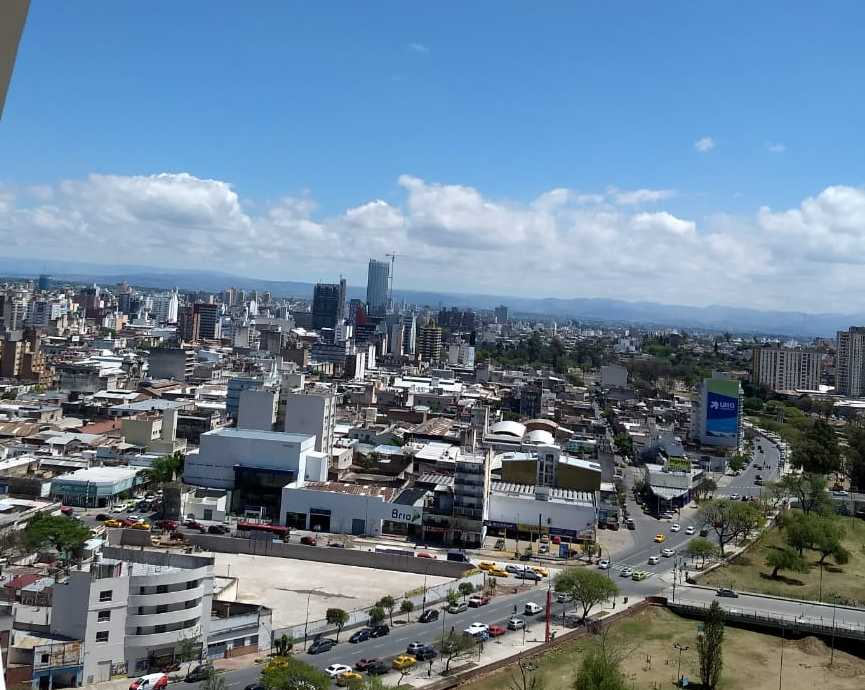
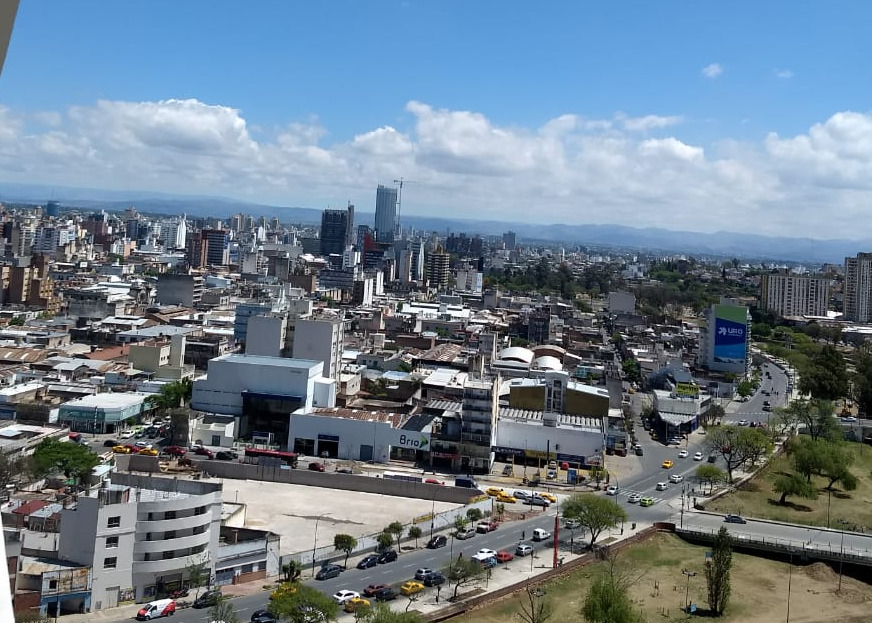
cambiando foto por una de mejor calidad

diff --git a/src/components/RoomsList.js b/src/components/RoomsList.js
@@ -4,7 +4,7 @@ const RoomsList = ({ rooms }) => {
   if (rooms.length === 0) {
     return (
       <div className="empty-search">
-        <h3>unfortunately no rooms matched your search parameters</h3>
+        <h3>Desafortunadamente no encontramos Alojamientos con los filtros que proporcionaste</h3>
       </div>
     );
   }
